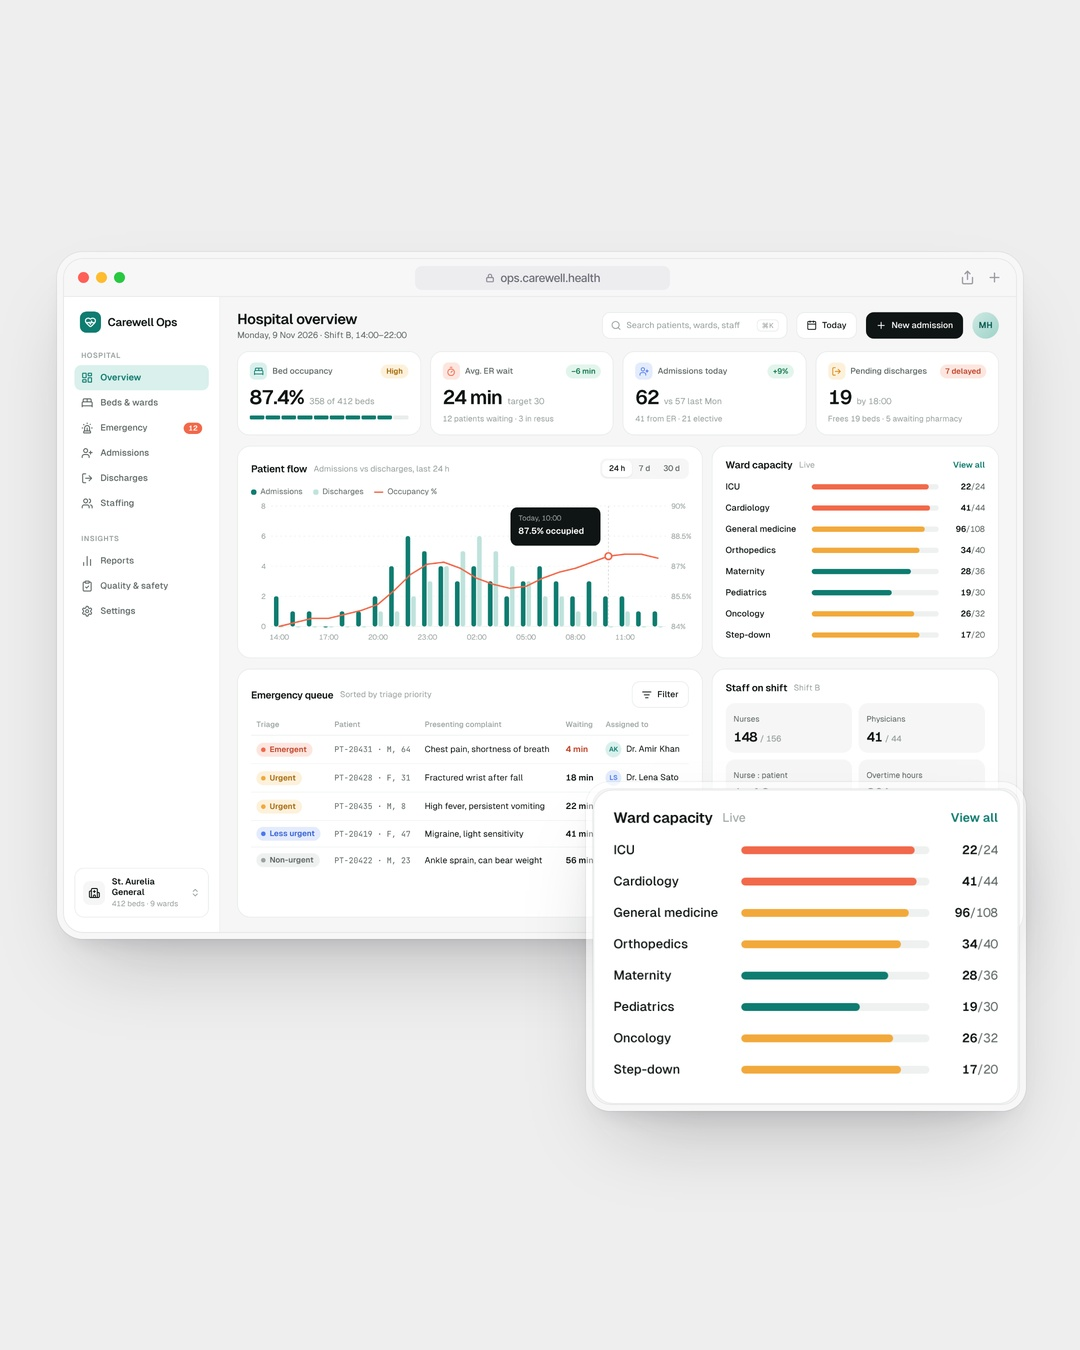
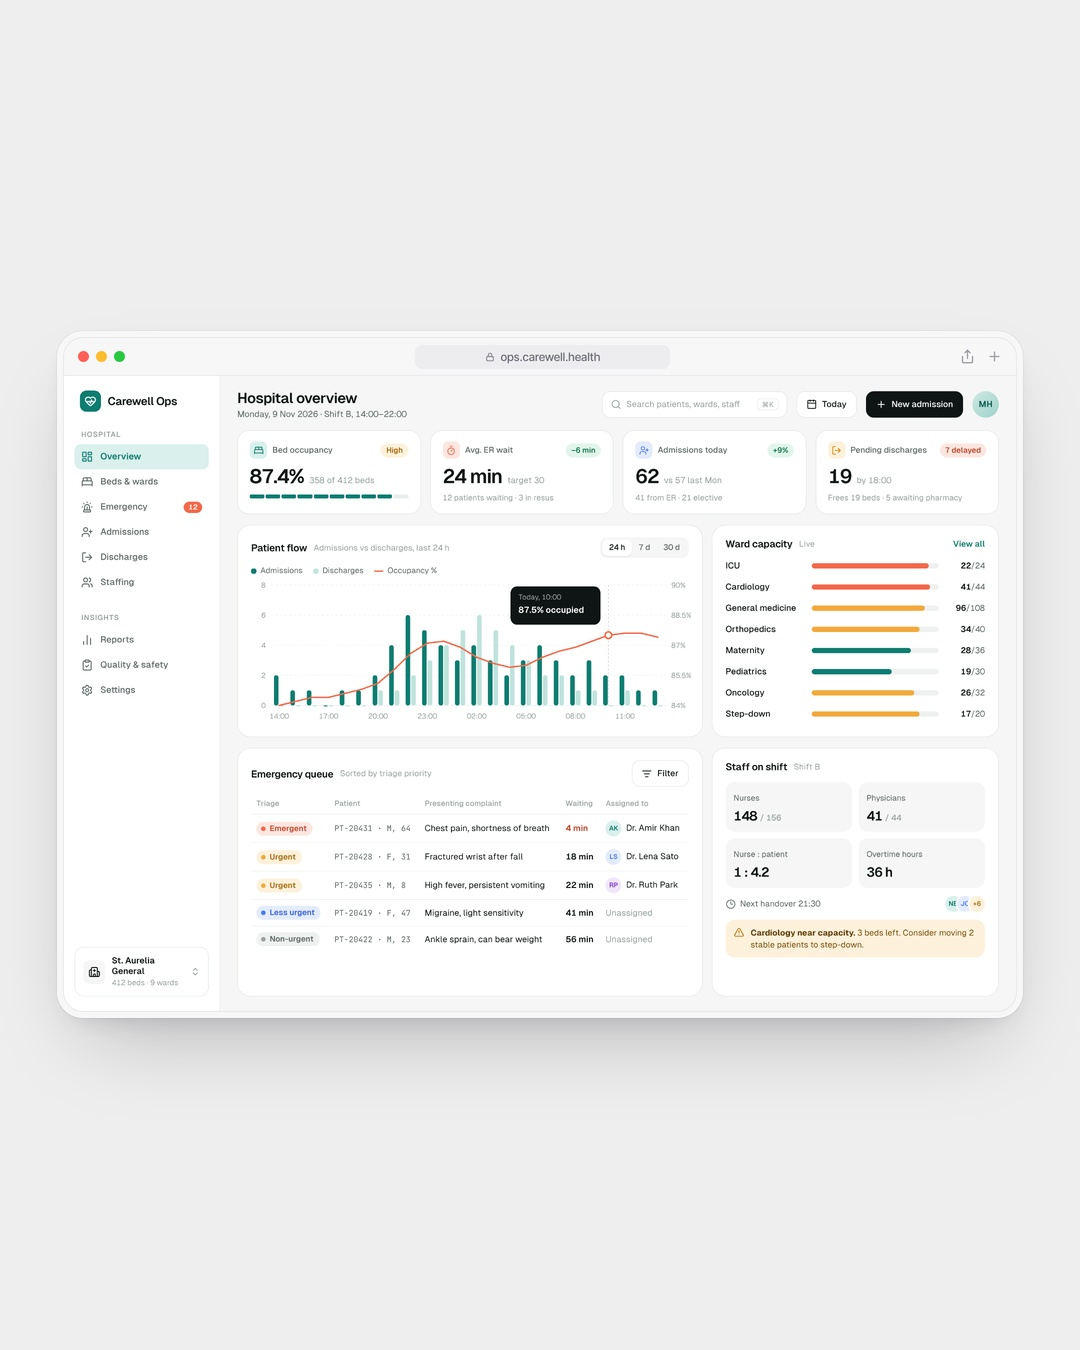
Dashboards: single screen only, remove zoom card
Claude-Session: https://claude.ai/code/session_01Rx7czzh6He3FZQdvJNRZFP

Changed region(s): [[0.0611, 0.1867, 0.9472, 0.84], [0.4889, 0.1867, 0.55, 0.2178], [0.5194, 0.3111, 0.55, 0.3422]]

diff --git a/designs/2026-11-09-pm-hospital-ops-dashboard/screen.html b/designs/2026-11-09-pm-hospital-ops-dashboard/screen.html
@@ -122,7 +122,7 @@ tr:last-child td{border-bottom:0}
    <div class="leg"><span><i style="background:var(--teal)"></i>Admissions</span><span><i style="background:#BFE3DC"></i>Discharges</span><span><i style="background:var(--coral);height:2px;border-radius:1px;width:14px"></i>Occupancy %</span></div>
    <svg id="flow" width="100%" height="214" style="margin-top:6px;overflow:visible"></svg>
   </div>
-  <div class="card" data-zoom data-zoom-pad="0">
+  <div class="card">
    <div class="ch"><h3>Ward capacity</h3><span class="s">Live</span><span style="margin-left:auto;font-size:12.5px;color:var(--teal);font-weight:600">View all</span></div>
    <div style="margin-top:8px">
     <div class="ward"><b>ICU</b><div class="track"><div style="width:92%;background:var(--coral)"></div></div><div class="n"><strong>22</strong>/24</div></div>

diff --git a/tools/render.py b/tools/render.py
@@ -6,8 +6,7 @@ Usage:
 
 The design dir holds screen.html (plus any images it uses).
   app        -> screen.html is a 393x852 phone screen; composited into the hand-holding-phone photo
-  dashboard  -> screen.html is a 1440x960 web app; shown in a browser window, plus a zoom card of
-                the element marked data-zoom (optional)
+  dashboard  -> screen.html is a 1440x960 web app; shown alone in one browser window (no zoom card)
   website    -> screen.html is a 1440px-wide landing page, 4500-6500px tall; shown as two long cards
 
 Icons: write {{icon:<lucide-name>:<size>:<#hex>[:<stroke-width>]}} anywhere in the HTML.
@@ -170,9 +169,7 @@ async def main(design_dir, kind, out):
         elif kind == 'dashboard':
             pg = await b.new_page(viewport={'width': 1440, 'height': 960}, device_scale_factor=2)
             await shoot(pg, rendered.as_uri(), work / 'screen.png')
-            zoom = await pg.evaluate("""()=>{const e=document.querySelector('[data-zoom]');if(!e)return null;
-              const r=e.getBoundingClientRect();const p=Number(e.dataset.zoomPad||16);
-              return [r.left-p,r.top-p,r.width+2*p,r.height+2*p]}""")
+            zoom = None  # owner wants a single dashboard screen, no zoom/popup card
             url = await pg.evaluate("()=>document.querySelector('meta[name=mock-url]')?.content||'app.example.com'")
             stage = work / 'stage.html'
             stage.write_text(dashboard_stage(b64(work / 'screen.png'), url, zoom))

diff --git a/PLAYBOOK.md b/PLAYBOOK.md
@@ -36,7 +36,7 @@ The renderer handles the mockup; you only design the screen.
 | type | screen.html size | mockup the renderer adds |
 |---|---|---|
 | app | 393×852 (iPhone) | hand holding the phone (the owner's reference photo) |
-| dashboard | 1440×960, no scroll | light browser window, centered; plus a zoom card of the element with `data-zoom` |
+| dashboard | 1440×960, no scroll | one light browser window, centered. **Single screen only: no zoom card, no popup, no modal, no floating overlay** |
 | website | 1440 wide, 4500–8000 tall | two long cards: top of the page in front, lower sections peeking behind |
 
 Conventions:
@@ -44,7 +44,7 @@ Conventions:
   Figtree, Onest, Outfit, Sora, Urbanist, Space Grotesk, Bricolage Grotesque, Instrument Sans, Instrument Serif, Fraunces, JetBrains Mono.
   Rotate fonts between posts.
 - Icons: `{{icon:<lucide-name>:<size>:<#hex>[:<stroke>]}}` (names from `node_modules/lucide-static/icons`).
-- Dashboard: `<meta name="mock-url" content="app.<brand>.com">` for the address bar; put `data-zoom` on the one card worth showing up close.
+- Dashboard: `<meta name="mock-url" content="app.<brand>.com">` for the address bar. Design the full screen only; never add popups, modals, dropdowns, toasts or tooltips floating over the layout (a small chart hover label inside a chart is fine).
 - App: draw the iOS status bar (9:41, signal, wifi, battery) at the top 54px and the home indicator at the bottom; the island comes from the photo.
 
 ### Quality bar (check every one before rendering)
